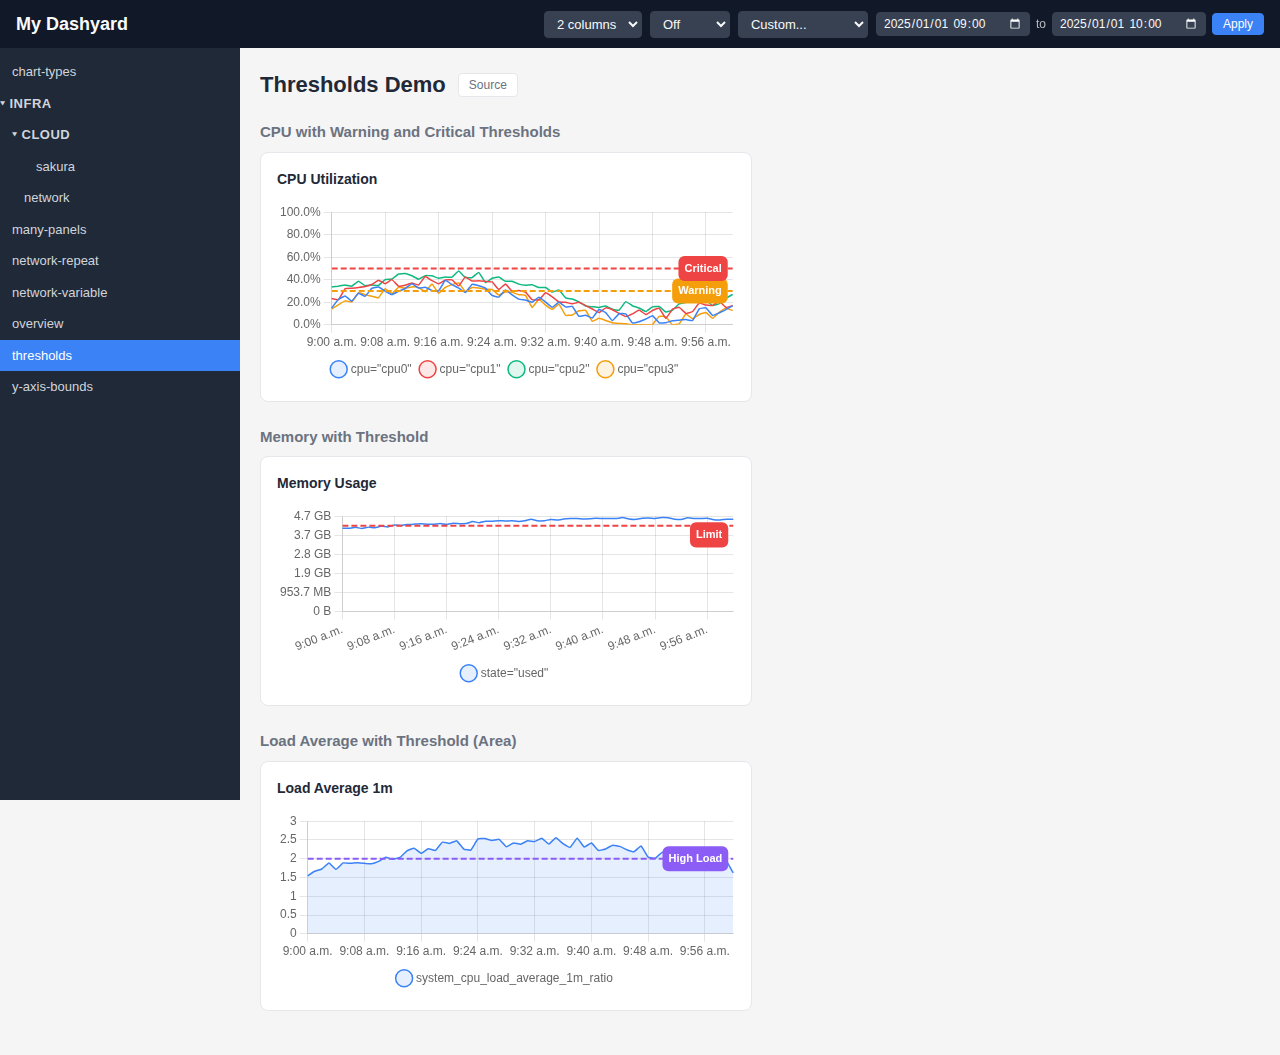
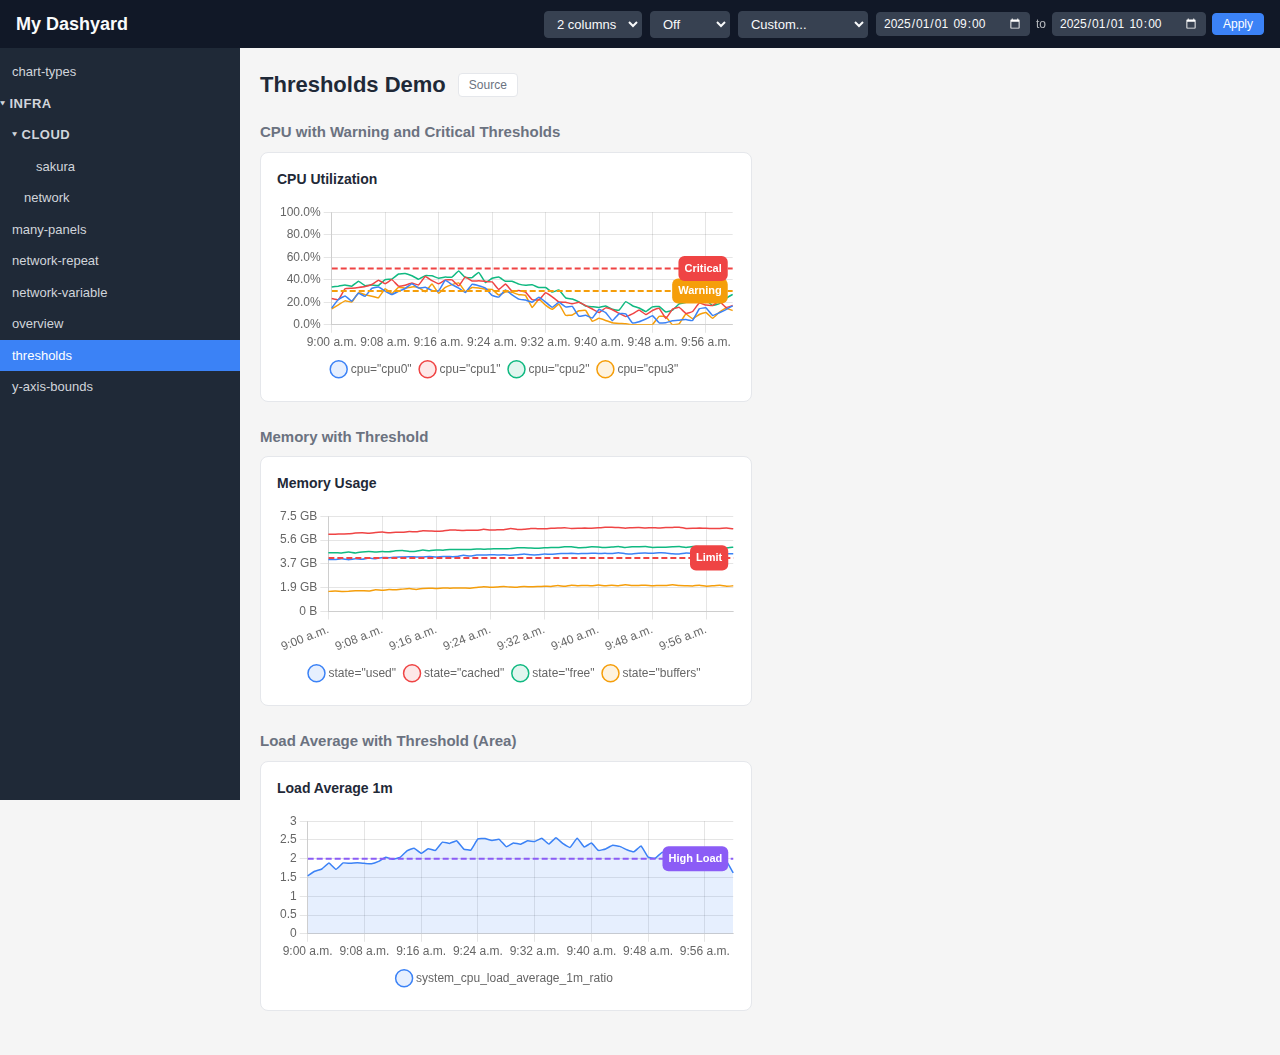
Use memory-by-state for stacked chart examples
Add used/cached/free/buffers states to dummyprom's memory metric so
stacked charts show a meaningful breakdown where the total represents
physical memory. CPU utilization per core was misleading when stacked
as percentages.

Changed region(s): [[0.2188, 0.4853, 0.5938, 0.6673], [0.4688, 0.6066, 0.5312, 0.6673]]

diff --git a/cmd/dummyprom/main.go b/cmd/dummyprom/main.go
@@ -164,19 +164,35 @@ func generateLoadAverage(start, end, step float64) []promResult {
 }
 
 func generateMemoryUsage(start, end, step float64) []promResult {
-	baseBytes := 4.0 * 1024 * 1024 * 1024 // 4 GB base
-	values := generateTimeSeries(start, end, step, func(t float64) float64 {
-		return baseBytes + 512*1024*1024*math.Sin(t/1800) + noise(t, 200)*100*1024*1024
-	})
-	return []promResult{
-		{
+	// Simulate 16 GB total memory split into used/cached/free/buffers.
+	// Each state varies over time but the total stays around 16 GB.
+	type memState struct {
+		name string
+		base float64 // base bytes
+		seed uint64
+	}
+	states := []memState{
+		{"used", 4.0 * 1024 * 1024 * 1024, 200},
+		{"cached", 6.0 * 1024 * 1024 * 1024, 201},
+		{"free", 4.5 * 1024 * 1024 * 1024, 202},
+		{"buffers", 1.5 * 1024 * 1024 * 1024, 203},
+	}
+	var results []promResult
+	for _, s := range states {
+		base := s.base
+		seed := s.seed
+		values := generateTimeSeries(start, end, step, func(t float64) float64 {
+			return math.Max(0, base+512*1024*1024*math.Sin(t/1800)+noise(t, seed)*100*1024*1024)
+		})
+		results = append(results, promResult{
 			Metric: map[string]string{
 				"__name__": "system_memory_usage_bytes",
-				"state":    "used",
+				"state":    s.name,
 			},
 			Values: values,
-		},
+		})
 	}
+	return results
 }
 
 func generateNetworkIO(start, end, step float64, direction string) []promResult {
@@ -253,6 +269,9 @@ var labelRegistry = map[string]map[string][]string{
 	},
 	"system_cpu_utilization_ratio": {
 		"cpu": {"cpu0", "cpu1", "cpu2", "cpu3"},
+	},
+	"system_memory_usage_bytes": {
+		"state": {"used", "cached", "free", "buffers"},
 	},
 	"system_disk_io_bytes_total": {
 		"device":    {"sda"},
